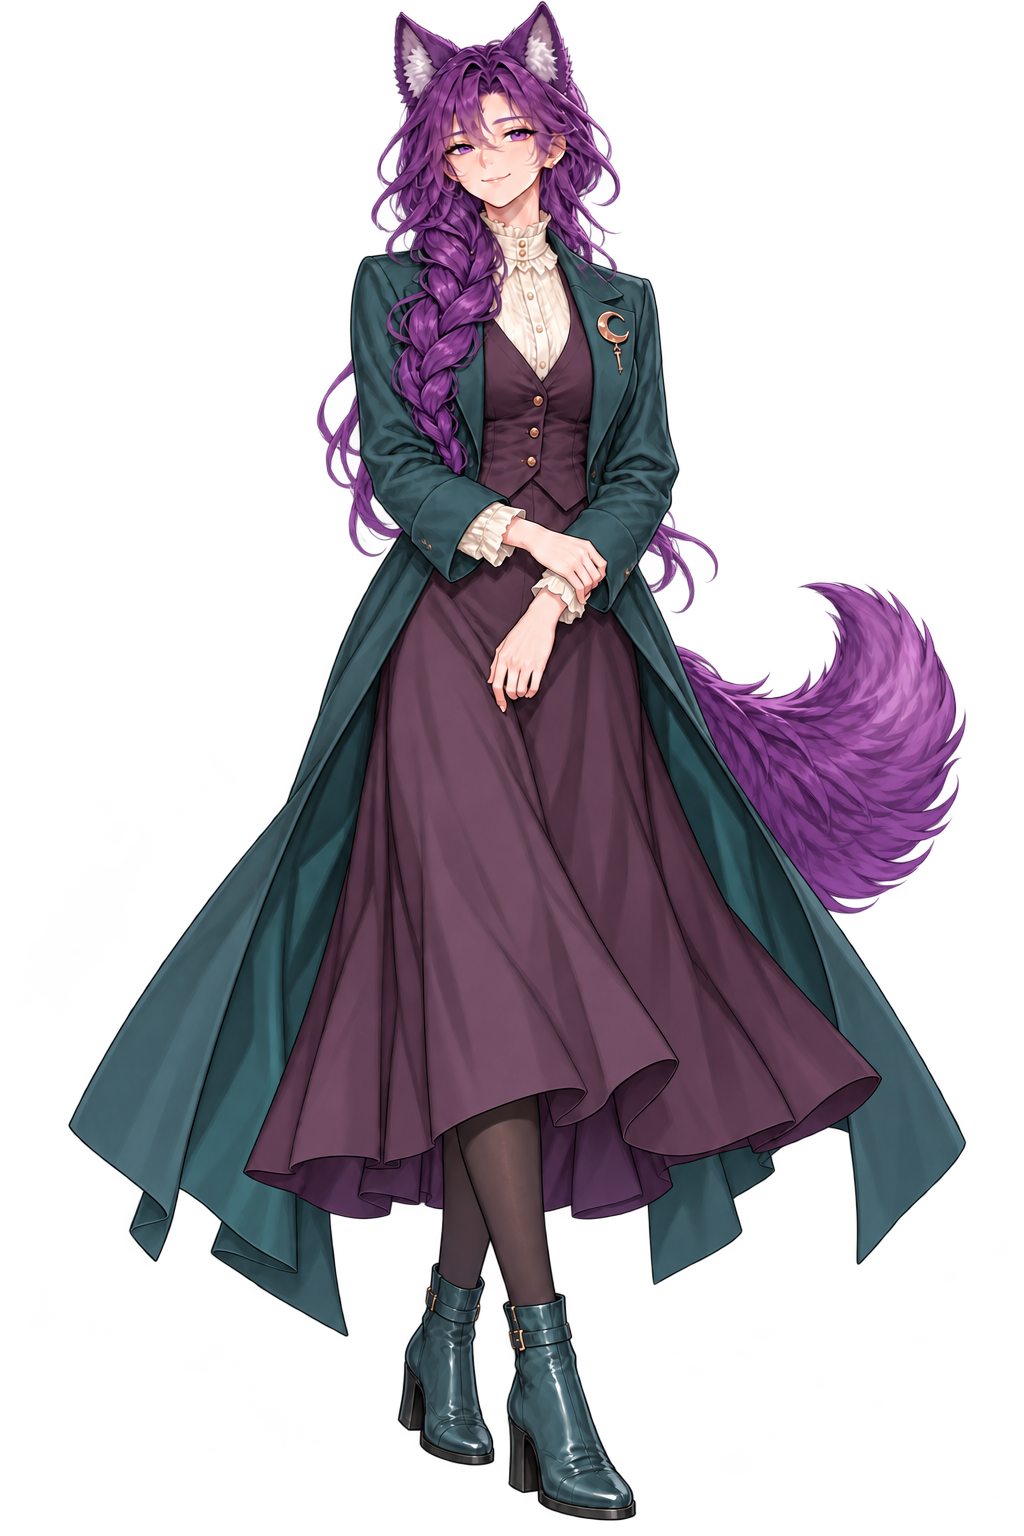
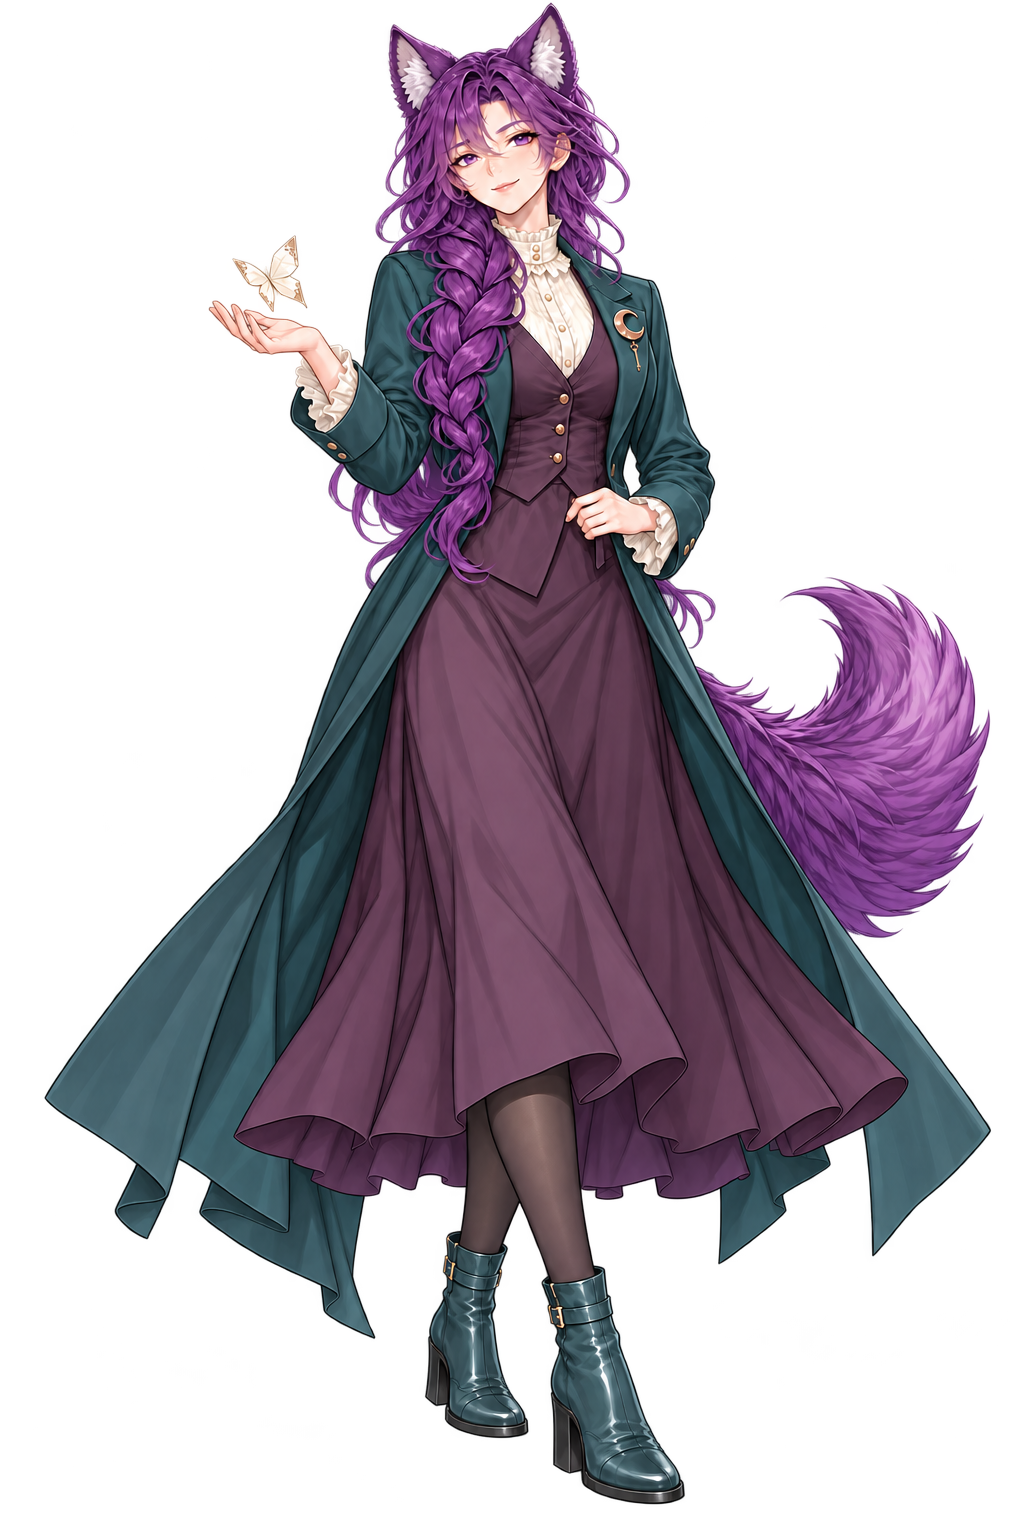
Update Whimsical Vex with approved butterfly expression set

Changed region(s): [[0.0312, 0.0, 0.9688, 1.0], [0.1562, 0.5938, 0.1875, 0.625]]

diff --git a/Nemo Engine/assets/vex/README.md b/Nemo Engine/assets/vex/README.md
@@ -33,7 +33,7 @@ The selected personality chooses the image set. Her reaction chooses an expressi
 - **Tsundere:** uses `tsundere/`, with a long purple side ponytail, silver clasp and earrings, cherry-red cropped jacket and rose pin, black ribbed top, charcoal houndstooth wrap skirt, dark tights, burgundy ankle boots, wolf ears, and a fluffy wolf tail. All nine intended expressions are available as transparent 1024 × 1536 full-body PNGs: neutral, amused, delighted, thoughtful, skeptical, surprised, concerned, sad, and annoyed. Her reactions retain guarded pride, hidden warmth, and moments of vulnerability.
 - **Underdog:** uses `underdog/`, with a practical purple low ponytail, faded indigo denim chore jacket with tan elbow patches, burgundy henley, charcoal straight-leg jeans, fingerless gloves, and worn brown boots, purple wolf ears, and a fluffy wolf tail. All nine intended expressions are available as transparent 1024 × 1536 full-body PNGs: neutral, amused, delighted, thoughtful, skeptical, surprised, concerned, sad, and annoyed. Her reactions retain resilience, practical warmth, and earned confidence.
 - **Unhinged:** uses `unhinged/`, with teal dyed hair with a broad coral section and visible violet roots, a messy half-up knot and pencil, an ivory paint-marked artist smock, plum top, charcoal work trousers, worn brown lace-up boots, a plum sketchbook, purple wolf ears, and a full purple wolf tail. The project owner approved this artist design to express unconstrained creativity, experimental ideas, and spontaneous enthusiasm. All nine intended expressions are available as transparent 1024 × 1536 full-body PNGs: neutral, amused, delighted, thoughtful, skeptical, surprised, concerned, sad, and annoyed.
-- **Whimsical:** uses `whimsical/`, with a thick purple side braid, dusty-teal tailcoat, ivory high-neck blouse, plum waistcoat and skirt, dark tights, teal ankle boots, and a rose-gold moon pin, purple wolf ears, and a fluffy wolf tail. All nine intended expressions are available as transparent 1024 × 1536 full-body PNGs: neutral, amused, delighted, thoughtful, skeptical, surprised, concerned, sad, and annoyed. Her reactions retain curiosity, gentle wonder, and playful attention.
+- **Whimsical:** uses `whimsical/`, with a thick purple side braid, dusty-teal tailcoat, ivory ruffled high-neck blouse, plum waistcoat and skirt, dark tights, teal ankle boots, rose-gold crescent pin, purple wolf ears, and a full purple wolf tail. The project owner approved her open, curious pose with a single ivory origami butterfly hovering above her palm. All nine intended expressions are available as transparent 1024 × 1536 full-body PNGs: neutral, amused, delighted, thoughtful, skeptical, surprised, concerned, sad, and annoyed. Her reactions express adult wonder, playful discovery, and genuine emotional range.
 - **Goon Gremlin:** uses `goon-gremlin/`, with a purple half-up bun with long loose waves, oversized magenta hoodie with cyan lining, black shirt and cargo joggers, and black-and-cyan high-top shoes, purple wolf ears, and a fluffy wolf tail. All nine intended expressions are available as transparent 1024 × 1536 full-body PNGs: neutral, amused, delighted, thoughtful, skeptical, surprised, concerned, sad, and annoyed. Her reactions retain mischief, playful confidence, and lively enthusiasm.
 - **Gooner:** uses `gooner/`, with long purple waves, a deep-magenta longline blazer, opaque black high-neck blouse, black wide-leg trousers, a narrow silver belt, geometric lapel pin, and dark-plum heeled ankle boots, purple wolf ears, and a fluffy wolf tail. All nine intended expressions are available as transparent 1024 × 1536 full-body PNGs: neutral, amused, delighted, thoughtful, skeptical, surprised, concerned, sad, and annoyed. Her reactions retain focused confidence, knowing warmth, and an expressive emotional range.
 - `masters/` reserves space for resolved Master Vex identities. Do not generate every possible combination. Register a stable Master ID and its own image set when artwork is available.
@@ -48,7 +48,7 @@ The selected personality chooses the image set. Her reaction chooses an expressi
 4. Supply `neutral` first. Set the set's status to `partial` while adding expressions, or `ready` when its intended set is complete. Update `assetVersion` whenever artwork or mappings change.
 5. Record artist/source, usage permission, and any required attribution in `CREDITS.md`.
 
-All 30 current image sets use nine expressions: neutral, amused, delighted, thoughtful, skeptical, surprised, concerned, sad, and annoyed. `intendedExpressions` records the complete target set; other optional slots may remain null even when a set is ready. Generation prompts and image hashes for the original 0.27.0 catalog are preserved in [`generation/v0.27.0.json`](generation/v0.27.0.json). The approved Unhinged artist revision and its nine expressions are recorded in [`generation/v0.28.0.json`](generation/v0.28.0.json).
+All 30 current image sets use nine expressions: neutral, amused, delighted, thoughtful, skeptical, surprised, concerned, sad, and annoyed. `intendedExpressions` records the complete target set; other optional slots may remain null even when a set is ready. Generation prompts and image hashes for the original 0.27.0 catalog are preserved in [`generation/v0.27.0.json`](generation/v0.27.0.json). The approved Unhinged artist revision and its nine expressions are recorded in [`generation/v0.28.0.json`](generation/v0.28.0.json). The approved Whimsical revision is recorded in [`generation/v0.29.0.json`](generation/v0.29.0.json).
 
 Other common expression slots: happy, excited, playful, smug, angry, embarrassed, weary. Not every personality needs every slot. Additional expressions can be registered explicitly. The manifest includes aliases for pensive, grinning, pouting, hurt, and faint-smile; expand these into distinct portraits later if useful.
 

diff --git a/Nemo Engine/assets/vex/CREDITS.md b/Nemo Engine/assets/vex/CREDITS.md
@@ -225,9 +225,11 @@
 
 - Files: `whimsical/neutral.png`, `whimsical/amused.png`, `whimsical/delighted.png`, `whimsical/thoughtful.png`, `whimsical/skeptical.png`, `whimsical/surprised.png`, `whimsical/concerned.png`, `whimsical/sad.png`, `whimsical/annoyed.png`.
 - Character and creative direction: Noah / NemoVonNirgend.
-- Source: generated with ChatGPT image generation using the supplied Vex identity reference, then edited from this set’s neutral base to create the remaining expressions. The set preserves a thick purple side braid, dusty-teal tailcoat, ivory high-neck blouse, plum waistcoat and skirt, dark tights, teal ankle boots, and a rose-gold moon pin, wolf ears, and a fluffy tail across all nine expressions.
+- Classic Fantasia / Whimsical persona interview: Steel-skull, as credited in the preset.
+- Approved direction: adult wonder, dream logic, warm playful discovery, and a specific little impossibility. The project owner approved the revised neutral sample before expression generation.
+- Source: generated with ChatGPT image generation, then edited from the approved neutral to create eight matching expressions. The set preserves the purple side braid, teal tailcoat, plum waistcoat and skirt, ivory ruffled blouse, tights and teal boots, crescent pin, purple ears and tail, open palm with one hovering ivory origami butterfly, and the other hand at her coat.
 - Publication: uploaded as part of the project owner’s requested Vex asset-set workflow. No separate third-party artwork license is asserted here.
-- Format: full-body transparent PNG, 1024 × 1536. This is Whimsical’s own image set; scene emotion does not switch her personality or costume.
+- Format: full-body transparent PNG, 1024 × 1536. Scene emotion does not switch her personality, costume, pose, or butterfly. Exact prompts and hashes are recorded in `generation/v0.29.0.json`.
 
 ## Goon Gremlin Vex
 
